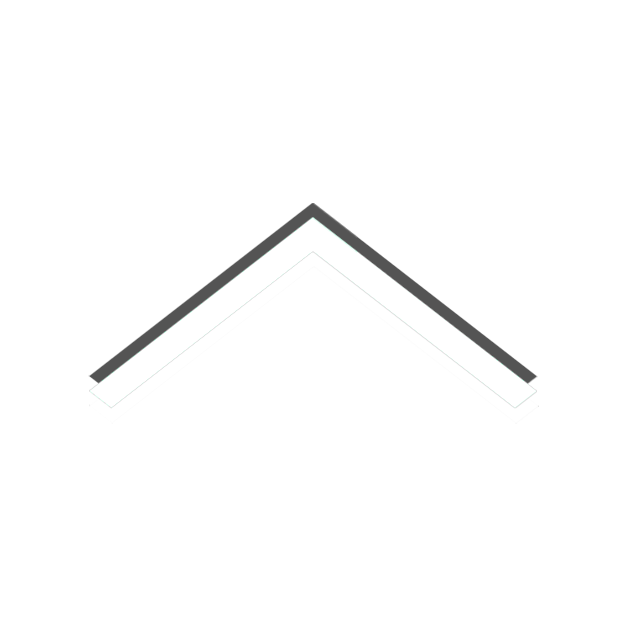
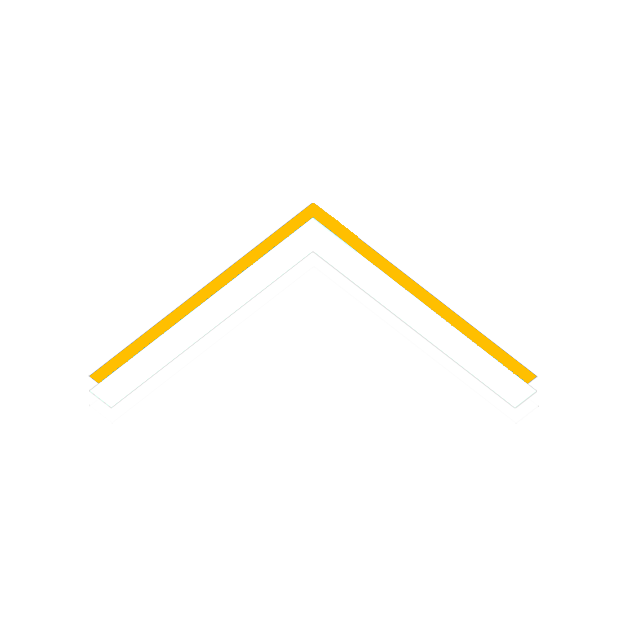
aplicacion de temas automaticos

Changed region(s): [[0.1518, 0.3035, 0.8498, 0.607]]

diff --git a/op-2/css/style.css b/op-2/css/style.css
@@ -1,18 +1,17 @@
 @import url(https://fonts.googleapis.com/css?family=Playfair+Display);
 @import url(https://fonts.googleapis.com/css?family=Open+Sans:400,300);
 
-:root {
-  --white:  var(--gray-primary)f;
-  --black-primary: #262626;
-  --gray-primary: #dcdcdc;
-  --blue-secondary: #1a245f;
-  --yellow-secondary: #ffbf00;
-}
+/* :root {
+  --primary-color-one: light dark;
+  --primary-color-tow: #dcdcdc;
+  --secondary-color-one: #1a245f;
+  --secondary-color-tow: #ffbf00;
+} */
 
 body {
     padding-top: 70px;
-    background-color: var(--black-primary);
-	  color: var(--gray-primary);
+    background-color: var(--primary-color-one);
+	  color: var(--primary-color-tow);
     font-family: 'Open Sans', sans-serif;
     font-size: 17px;
     line-height: 1.8 !important;
@@ -25,7 +24,7 @@ html {
 h1,h2,h3,h4,h5,h6 {
 	font-family: 'Open Sans', sans-serif;
 	font-weight:200;
-	color: var(--yellow-secondary);
+	color: var(--secondary-color-tow);
 }
 
 p{
@@ -44,11 +43,11 @@ section {
 }
 
 a,a:link {
-	color: var(--gray-primary);
+	color: var(--primary-color-tow);
 }
 
 a:hover,a:focus {
-	color: var(--yellow-secondary);
+	color: var(--secondary-color-tow);
 }
 
 
@@ -81,21 +80,21 @@ a:hover,a:focus {
 }
 
 .navbar-default {
-    background-color: var(--black-primary);
-    border-color: #3f3f3f;
+    background-color: var(--primary-color-one);
+    border-color: var(--primary-color-tow);
 }
 
 .navbar-default .navbar-nav > .active > a, .navbar-default .navbar-nav > .active > a:focus, .navbar-default .navbar-nav > .active > a:hover {
-    background-color: var(--black-primary);
-    color: var(--gray-primary);
+    background-color: var(--primary-color-one);
+    color: var(--primary-color-tow);
 }
 
 .navbar-default .navbar-nav > li > a {
-    color: var(--gray-primary);
+    color: var(--primary-color-tow);
 }
 
-.navbar-default .navbar-nav > li > a:hover {
-    color: var(--yellow-secondary);
+.navbar-default .navbar-nav > li > a:hover, .navbar-default .navbar-nav > li > a:focus {
+    color: var(--secondary-color-tow);
 }
 
 
@@ -111,7 +110,7 @@ a:hover,a:focus {
 .navbar-toggle {
     border: medium none;
     border-radius: 0;
-    color: var(--gray-primary);
+    color: var(--primary-color-tow);
     cursor: pointer;
     height: 50px;
     padding: 16px;
@@ -123,18 +122,18 @@ a:hover,a:focus {
 
 .navbar-default .navbar-toggle:hover,
 .navbar-default .navbar-toggle:focus {
-  background-color: var(--gray-primary);
+  background-color: var(--primary-color-one);
 }
 
 .navbar-default .navbar-toggle, .navbar-default .navbar-collapse, .navbar-default .navbar-form {
-    border-color: var(--gray-primary);
+    border-color: var(--primary-color-tow);
 }
 
 .navbar-toggle span {
 	width: 25px;
 	height: 3px;
 	margin-bottom: 5px;
-	background-color: var(--black-primary);
+	background-color: var(--primary-color-tow);
 	display: block;
 }
 .navbar-toggle span.bar1 {
@@ -193,7 +192,7 @@ a:hover,a:focus {
 
 .big-letter p:first-child:first-letter { 
 	float: left; 
-	color: var(--yellow-secondary); 
+	color: var(--secondary-color-tow); 
 	font-size: 8em;  
 	line-height: 0.8em; 
 	text-transform: uppercase; 
@@ -231,7 +230,7 @@ a:hover,a:focus {
 /* Hover Effect */
 
 .hovereffect a:link,.hovereffect a:hover,.hovereffect a:focus,.hovereffect a:visited {
-	color: var(--gray-primary);
+	color: var(--primary-color-tow);
 }
 
 .hovereffect {
@@ -257,7 +256,7 @@ a:hover,a:focus {
 }
 
 .hovereffect a, .hovereffect p,.hovereffect h2 {
-  color:  var(--gray-primary);
+  color:  var(--primary-color-tow);
   text-decoration:none;
   opacity: 0;
   filter: alpha(opacity=0);
@@ -268,7 +267,7 @@ a:hover,a:focus {
 }
 
 .hovereffect:hover a, .hovereffect:hover p, .hovereffect:hover h2 {
-  color: var(--gray-primary);
+  color: var(--primary-color-tow);
   text-decoration:none;
   opacity: 1;
   letter-spacing:1px;
@@ -374,7 +373,7 @@ a:hover,a:focus {
 /* Carousel Control*/
 
 .close {
-    color:  var(--gray-primary);
+    color:  var(--primary-color-tow);
     font-size: 50px;
     font-weight: lighter;
     opacity: 1;
@@ -386,7 +385,7 @@ a:hover,a:focus {
 }
 
 .close:hover, .close:focus {
-    color: var(--blue-secondary);
+    color: var(--secondary-color-one);
 }
 
 .carousel-control.left, .carousel-control.right  {
@@ -539,4 +538,9 @@ footer p {
   }
 }
 
-
+/* [data-bs-theme="light"] {
+  --primary-color-one: white;
+  --primary-color-tow: black;
+  --secondary-color-one: #ffbf00;
+  --secondary-color-tow: #1a245f;
+} */

diff --git a/op-2/index.html b/op-2/index.html
@@ -1,5 +1,5 @@
 <!DOCTYPE html>
-<html lang="en">
+<html lang="es">
 
 <head>
 
@@ -14,6 +14,8 @@
     <!-- Css -->
     <link href="css/bootstrap.css" rel="stylesheet">
 	<link href="css/style.css" rel="stylesheet">
+	<link rel="stylesheet" media="(prefers-color-scheme: light)" href="css/light-theme.css">
+	<link rel="stylesheet" media="(prefers-color-scheme: dark)" href="css/dark-theme.css">
 
 
 </head>
@@ -36,10 +38,10 @@
 
 			<div class="collapse navbar-collapse" id="main-menu">
 			   <ul class="nav navbar-nav navbar-right">
-				<li><a href="#about">About</a></li>
-				<li><a href="#portfolio">Portfolio</a></li>
-				<li><a href="#press">Press</a></li>
-				<li><a href="#brand">Brand</a></li>
+				<li><a href="#about">¿Quienes somos?</a></li>
+				<li><a href="#projects">Proyectos</a></li>
+				<li><a href="#services">Servicios</a></li>
+				<li><a href="#contact">Contacto</a></li>
 			  </ul>
 			</div><!-- /.navbar-collapse -->
 		</div><!-- /.container-fluid -->
@@ -99,7 +101,7 @@
 			<div class="row">
 				<div class="col-md-6 big-letter">
 					<p>
-						Donec quis leo leo. Pellentesque habitant morbi tristique senectus et netus et malesuada fames ac turpis egestas. 
+						Aonec quis leo leo. Pellentesque habitant morbi tristique senectus et netus et malesuada fames ac turpis egestas. 
 						Cras scelerisque rhoncus nulla sit amet bibendum. Quisque maximus vel nibh non tincidunt. Mauris felis felis, porta 
 						vitae sem sed, auctor consequat diam. Sed eu magna ultricies, convallis elit vel, lacinia ante. 
 					</p>
@@ -127,7 +129,7 @@
 	
 	
 	<!-- Gallery -->
-	<section id="portfolio">
+	<section id="projects">
 		<div class="container">
 			<div class="row">
 			
@@ -242,7 +244,7 @@
 	
 	
 	<!-- Press -->
-	<section class="press" id="press">
+	<section class="press" id="services">
 		<div class="container about">
 			<div class="row">
 				<div class="col-md-4">
@@ -312,7 +314,7 @@
 	
 	
 	<!-- Brand -->
-	<section id="brand">
+	<section id="contact">
 		<div class="container">
 			<div class="row">
 				<div class="col-md-12">

diff --git a/op-2/css/dark-theme.css b/op-2/css/dark-theme.css
@@ -1,0 +1,6 @@
+:root {
+    --primary-color-one: #262626;
+    --primary-color-tow: #dcdcdc;
+    --secondary-color-one: #1a245f;
+    --secondary-color-tow: #ffbf00;
+}

diff --git a/op-2/css/light-theme.css b/op-2/css/light-theme.css
@@ -1,0 +1,6 @@
+:root {
+    --primary-color-one: white;
+    --primary-color-tow: black;
+    --secondary-color-one: #ffbf00;
+    --secondary-color-tow: #1a245f;
+}
